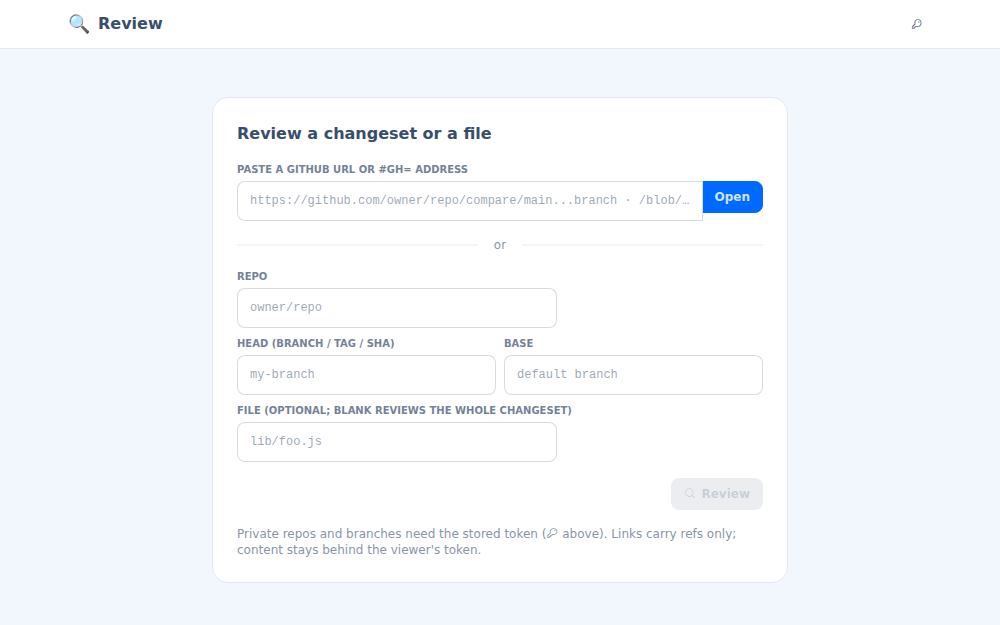
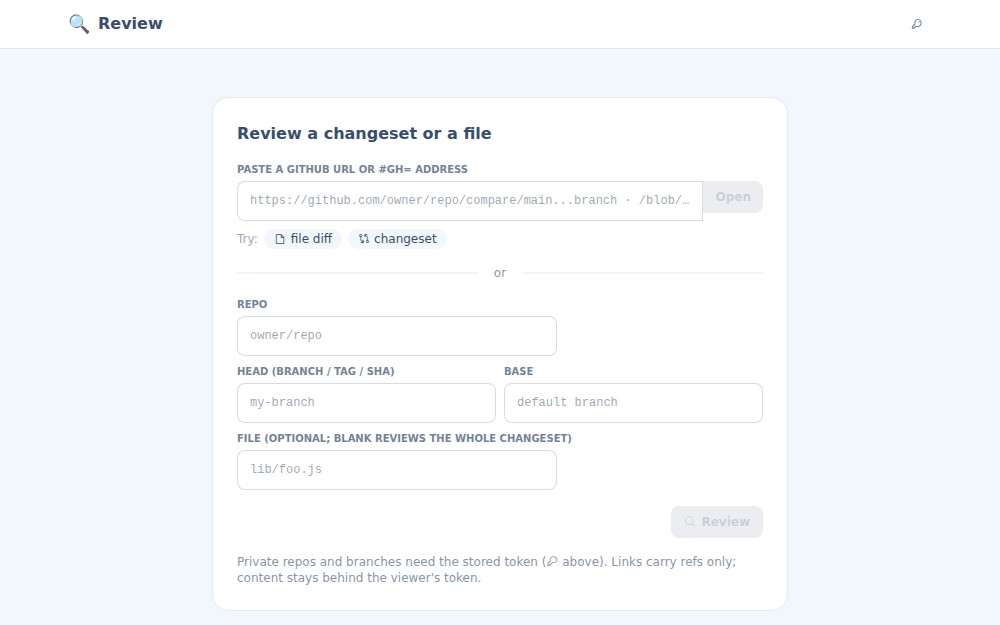
review page: clickable examples in the empty state; srcdoc-safe reset
The empty-state placeholder was only a placeholder, giving no one-tap way to
see a comparison — and a tossed page never receives a target through the
fragment (toss-render renders into a srcdoc iframe, whose hash is empty), so
the empty state is the only way in there. Add durable, public, token-free
example chips (SHA-addressed, so they survive branch deletion), disable Open
on empty input, and clear the fragment in reset() without pushState (which
throws on about:srcdoc). Guard the card's CM6 render so a blocked esm.sh
degrades to the Patch/New/Base tabs instead of throwing.

Claude-Session: https://claude.ai/code/session_01XquNwzX7yU8cztT2yscWQJ

diff --git a/pages/review.html b/pages/review.html
@@ -110,7 +110,15 @@
           <input x-model="fPaste" @keydown.enter="goPaste()"
                  placeholder="https://github.com/owner/repo/compare/main...branch · /blob/… · /pull/N"
                  class="input input-sm input-bordered font-mono text-xs join-item w-full">
-          <button @click="goPaste()" class="btn btn-sm btn-primary join-item">Open</button>
+          <button @click="goPaste()" :disabled="!fPaste.trim()" class="btn btn-sm btn-primary join-item">Open</button>
+        </div>
+        <div class="flex flex-wrap items-center gap-1.5 mt-1 text-xs">
+          <span class="opacity-50">Try:</span>
+          <template x-for="ex in examples" :key="ex.label">
+            <button @click="setHash(ex.target)" class="badge badge-sm badge-ghost gap-1 hover:badge-primary cursor-pointer">
+              <i class="ph" :class="ex.icon"></i><span x-text="ex.label"></span>
+            </button>
+          </template>
         </div>
       </div>
       <div class="divider my-0 text-xs opacity-60">or</div>
@@ -204,6 +212,18 @@ function reviewApp() { return {
   linkCopied: false,
   dumpCopied: false,
   fPaste: '', fRepo: '', fHead: '', fBase: '', fPath: '',
+
+  // Built-in demo targets. Durable by construction: commit SHAs never move and
+  // the repo is public, so these render with no token and survive branch
+  // deletion (which is why they address SHAs, not the merged branch names).
+  // They also make the empty state actionable inside a toss, where the address
+  // fragment cannot reach the rendered page (srcdoc iframe = empty hash).
+  examples: [
+    { label: 'file diff', icon: 'ph-file',
+      target: { repo: 'mehrlander/web-tools', ref: '08635d9', path: '.claude/skills/tasks/SKILL.md', base: '899e9d1' } },
+    { label: 'changeset', icon: 'ph-git-diff',
+      target: { repo: 'mehrlander/web-tools', ref: '820c137', base: '899e9d1' } },
+  ],
 
   async init() {
     window.addEventListener('hashchange', () => this.boot());
@@ -303,6 +323,7 @@ function reviewApp() { return {
   },
 
   goPaste() {
+    if (!this.fPaste.trim()) return;
     const t = reviewTarget.parse(this.fPaste);
     if (!t) { this.error = 'Could not parse that as a GitHub URL or #gh= address.'; return; }
     if (t.kind === 'pull') {
@@ -332,8 +353,11 @@ function reviewApp() { return {
 
   reset() {
     this.fPaste = ''; this.fPath = '';
-    history.pushState(null, '', location.pathname + location.search);
-    this.boot();
+    // Clear the fragment without pushState: inside a toss srcdoc iframe the
+    // document is about:srcdoc, where pushState to a pathname throws. Assigning
+    // an empty hash is same-document and fires our hashchange -> boot.
+    if (location.hash) location.hash = '';
+    else this.boot();
   },
 
   async copyLink() {

diff --git a/lib/alpineComponents/file-review.js b/lib/alpineComponents/file-review.js
@@ -250,12 +250,22 @@ document.addEventListener('alpine:init', function () {
         this._teardown();
         const mine = this._renderSeq = (this._renderSeq || 0) + 1;
         const language = cm6Merge.langFor(this.path);
-        const h = this.view === 'unified'
-          ? await cm6Merge.unified(host, { original: this.baseText, doc: this.newText, language })
-          : await cm6Merge.split(host, { a: this.baseText, b: this.newText, language });
-        // A tab/view flip while CM6 modules were loading supersedes this render.
-        if (mine !== this._renderSeq) { h.destroy(); return; }
-        this._cm = h;
+        try {
+          const h = this.view === 'unified'
+            ? await cm6Merge.unified(host, { original: this.baseText, doc: this.newText, language })
+            : await cm6Merge.split(host, { a: this.baseText, b: this.newText, language });
+          // A tab/view flip while CM6 modules were loading supersedes this render.
+          if (mine !== this._renderSeq) { h.destroy(); return; }
+          this._cm = h;
+        } catch (e) {
+          // CM6 modules come from esm.sh; a blocked or flaky CDN must not kill
+          // the card — the Patch / New / Base tabs stay usable.
+          if (mine === this._renderSeq && this.$refs.cmhost) {
+            this.$refs.cmhost.innerHTML =
+              '<div class="p-3 text-xs opacity-60 italic">Diff view unavailable ('
+              + ((e && e.message) || e) + '). Use the Patch, New, or Base tab.</div>';
+          }
+        }
       },
 
       _teardown() {